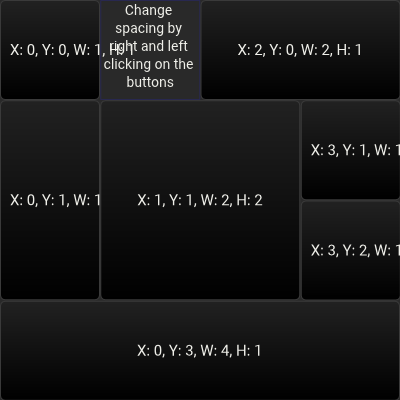
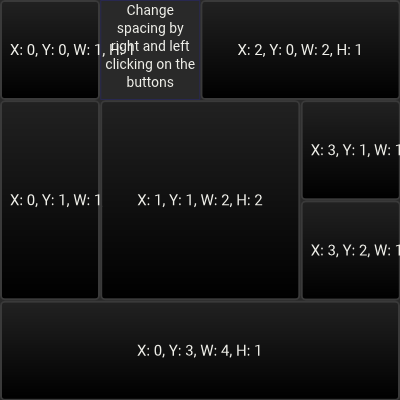
Change how buttons are rendered
Make the border and background disjoint.
Correctly interpret the border width.

diff --git a/masonry/src/widgets/button.rs b/masonry/src/widgets/button.rs
@@ -184,11 +184,16 @@ impl Widget for Button {
         let is_hovered = ctx.is_hovered();
         let size = ctx.size();
         let stroke_width = theme::BUTTON_BORDER_WIDTH;
+        let border_radius = theme::BUTTON_BORDER_RADIUS;
 
-        let rounded_rect = size
+        let bg_rect = size
+            .to_rect()
+            .inset(-stroke_width)
+            .to_rounded_rect(border_radius - stroke_width);
+        let border_rect = size
             .to_rect()
             .inset(-stroke_width / 2.0)
-            .to_rounded_rect(theme::BUTTON_BORDER_RADIUS);
+            .to_rounded_rect(border_radius);
 
         let bg_gradient = if ctx.is_disabled() {
             [theme::DISABLED_BUTTON_LIGHT, theme::DISABLED_BUTTON_DARK]
@@ -204,10 +209,10 @@ impl Widget for Button {
             theme::BORDER_DARK
         };
 
-        stroke(scene, &rounded_rect, border_color, stroke_width);
+        stroke(scene, &border_rect, border_color, stroke_width);
         fill_lin_gradient(
             scene,
-            &rounded_rect,
+            &bg_rect,
             bg_gradient,
             UnitPoint::TOP,
             UnitPoint::BOTTOM,
